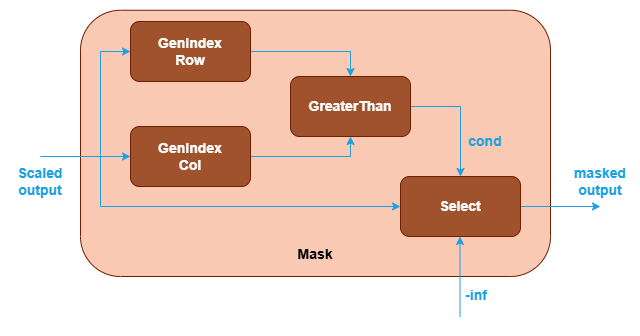
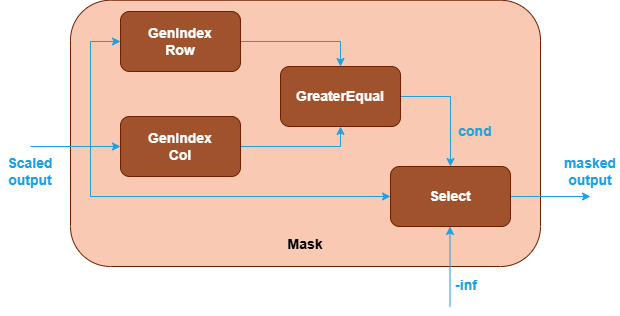
update op name from GreaterThan to GreaterEqual

Changed region(s): [[0.0, 0.0, 1.0, 0.9684], [0.6742, 0.5981, 0.7661, 0.6551]]

diff --git a/rfcs/20241205-graph-api-causal-mask/README.md b/rfcs/20241205-graph-api-causal-mask/README.md
@@ -128,7 +128,7 @@ Users can set boolean flags (`use_causal_mask` for top-left alignment,
 cuDNN frontend API [4] to utilize these causal masks.
 The graph construction inside the library differs for each alignment:
 
-- Top-left causal mask: uses operations `GenIndex`, `Greater Than`, and `Select`.
+- Top-left causal mask: uses operations `GenIndex`, `GreaterEqual`, and `Select`.
 - Bottom-right causal mask: requires additional `Add` and `Sub` operations to shift
   the mask.
 
@@ -259,8 +259,8 @@ will fuse the subgraphs into SDPA kernels based on backend capabilities.
 Users can construct the subgraph using the following structure:
 
 1. The `GenIndex` operation generates indexes for rows and columns.
-2. These indexes are then compared using the `GreaterThan` operation.
-3. When the row index exceeds the column index, it indicates future tokens. The
+2. These indexes are then compared using the `GreaterEqual` operation.
+3. When the column index exceeds the row index, it indicates future tokens. The
    `Select` operation then sets these future token positions to -inf.
 
 ![causal mask subgraph top left](images/causal_mask_subgraph_top_left.png)
@@ -276,7 +276,7 @@ Users can construct the subgraph using the following structure:
 2. The condition for masking is changed (indicated by the yellow blocks in the
    following image), if the column index is less than the row index + s_kv -
    s_q, it indicates future tokens. This condition can be represented with
-   `GreaterThan`, `Add`, `Sub`and two `Constant` operations.
+   `GreaterEqual`, `Add`, `Sub`and two `Constant` operations.
 3. The `Select` operation sets these future token positions to -inf.
 
 ![causal mask subgraph bottom_right](images/causal_mask_subgraph_bottom_right.png)
@@ -286,7 +286,7 @@ With this proposal, the SDPA pattern will support above subgraph-based masks:
 ![sdpa with causal mask subgraph](images/sdpa_w_causal_mask_subgraph.png)
 
 To support this proposal, oneDNN Graph will need to support `GenInex` and
-`GreaterThan` and `Constant` operations additionally.
+`GreaterEqual` and `Constant` operations additionally.
 
 #### GenIndex Op Support
 
@@ -324,9 +324,9 @@ corresponding to the indices along the specified axis.
 | f16  | s32 |
 | bf16 | s32 |
 
-#### GreaterThan Op Support
+#### GreaterEqual Op Support
 
-`GreaterThan` performs element-wise comparison with two given tensors applying
+`GreaterEqual` performs element-wise comparison with two given tensors applying
 broadcast rules specified in the `auto_broadcast` attribute.
 
 ##### Attributes
@@ -354,7 +354,7 @@ shapes and auto-broadcasting is allowed.
 
 ##### Supported data types
 
-GreaterThan operation supports the following data type combinations.
+GreaterEqual operation supports the following data type combinations.
 
 | src_0 / src_1  | dst     |
 | :------------- | :------ |
